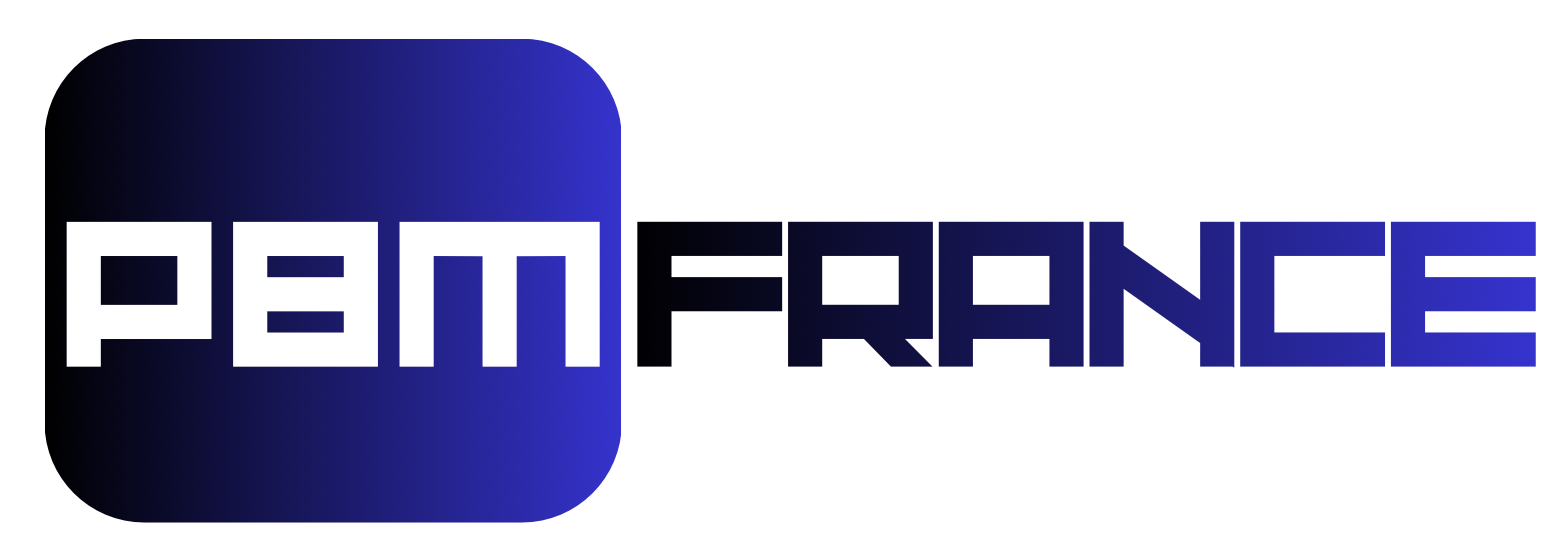
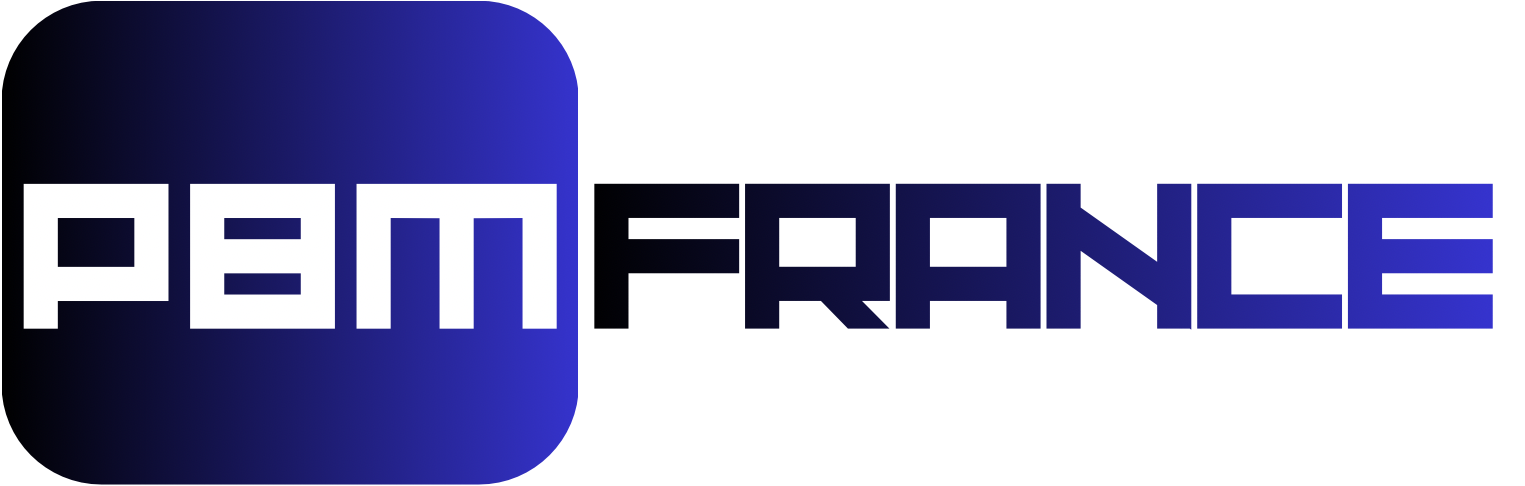
ajout icones de lucide react + footer en blanc

Changed region(s): [[0.0, 0.0, 0.9862, 1.0]]

diff --git a/src/components/Footer.jsx b/src/components/Footer.jsx
@@ -1,14 +1,15 @@
-// src/components/Footer.jsx
+import { Phone, Mail, MapPin } from 'lucide-react';
 import React from 'react';
+import Logo from "../Logo.jsx";
 
 const Footer = () => {
     const phone = '06 XX XX XX XX';
-    const email = 'contact@pbm-france.fr';
+    const email = 'contact@pbmfrance.fr';
     const address = 'Le Thillay, Val d\'Oise 95';
     const whatsappNumber = '33600000000';
 
     return (
-        <footer className="bg-pbm-noir border-t border-white/5">
+        <footer className="bg-gray-300 shadow-sm border-t border-gray-200">
             {/* Main footer grid */}
             <div className="px-14 md:px-16 pt-16 pb-10">
                 <div className="grid grid-cols-1 md:grid-cols-[2fr_1fr_1fr_1fr] gap-12 md:gap-6 lg:gap-10 mb-12">
@@ -16,18 +17,11 @@ const Footer = () => {
                     {/* Col 1 — Brand */}
                     <div className="md:col-span-1">
                         {/* Logo */}
-                        <div
-                            className="font-bebas text-3xl tracking-widest mb-4"
-                            style={{
-                                background: 'linear-gradient(90deg, #f5f3ee, #6366f1)',
-                                WebkitBackgroundClip: 'text',
-                                WebkitTextFillColor: 'transparent',
-                            }}
-                        >
-                            PBM <span style={{ WebkitTextFillColor: '#6366f1' }}>FRANCE</span>
+                        <div className="mb-4">
+                            <Logo />
                         </div>
 
-                        <p className="text-sm text-pbm-grey font-light leading-relaxed max-w-[280px] mb-6">
+                        <p className="text-sm text-pbm-noir font-normal leading-relaxed max-w-[280px] mb-6">
                             Spécialistes en métallerie et menuiserie sur mesure en Île-de-France
                             depuis plus de 10 ans. Portails, rideaux métalliques, escaliers et
                             rénovation façade.
@@ -37,20 +31,20 @@ const Footer = () => {
                         <div className="flex flex-col gap-2">
                             <a
                                 href={`tel:${phone.replace(/\s/g, '')}`}
-                                className="flex items-center gap-2.5 text-sm text-pbm-grey2 font-light hover:text-pbm-blue3 transition-colors"
+                                className="flex items-center gap-2.5 text-sm text-pbm-noir font-normal hover:text-pbm-blue3 transition-colors"
                             >
-                                <span className="text-base">📞</span>
+                                <Phone size={16} className="text-pbm-blue3" />
                                 {phone}
                             </a>
                             <a
                                 href={`mailto:${email}`}
-                                className="flex items-center gap-2.5 text-sm text-pbm-grey2 font-light hover:text-pbm-blue3 transition-colors"
+                                className="flex items-center gap-2.5 text-sm text-pbm-noir font-normal hover:text-pbm-blue3 transition-colors"
                             >
-                                <span className="text-base">✉</span>
+                                <Mail size={16} className="text-pbm-blue3" />
                                 {email}
                             </a>
-                            <div className="flex items-center gap-2.5 text-sm text-pbm-grey2 font-light">
-                                <span className="text-base">📍</span>
+                            <div className="flex items-center gap-2.5 text-sm text-pbm-noir font-normal">
+                                <MapPin size={16} className="text-pbm-blue3" />
                                 {address}
                             </div>
                         </div>
@@ -58,7 +52,7 @@ const Footer = () => {
 
                     {/* Col 2 — Services */}
                     <div>
-                        <div className="text-[11px] text-white uppercase tracking-[2px] font-semibold mb-5">
+                        <div className="text-[11px] text-pbm-noir uppercase tracking-[2px] font-bold mb-5">
                             Services
                         </div>
                         <ul className="flex flex-col gap-2.5">
@@ -73,7 +67,7 @@ const Footer = () => {
                                 <li key={service}>
                                     <a
                                         href="#services"
-                                        className="text-sm text-pbm-grey font-light hover:text-pbm-blue3 transition-colors"
+                                        className="text-sm text-pbm-noir font-normal hover:text-pbm-blue3 transition-colors"
                                     >
                                         {service}
                                     </a>
@@ -84,7 +78,7 @@ const Footer = () => {
 
                     {/* Col 3 — Entreprise */}
                     <div>
-                        <div className="text-[11px] text-white uppercase tracking-[2px] font-semibold mb-5">
+                        <div className="text-[11px] text-pbm-noir uppercase tracking-[2px] font-bold mb-5">
                             Entreprise
                         </div>
                         <ul className="flex flex-col gap-2.5">
@@ -98,7 +92,7 @@ const Footer = () => {
                                 <li key={label}>
                                     <a
                                         href={href}
-                                        className="text-sm text-pbm-grey font-light hover:text-pbm-blue3 transition-colors"
+                                        className="text-sm text-pbm-noir font-normal hover:text-pbm-blue3 transition-colors"
                                     >
                                         {label}
                                     </a>
@@ -107,9 +101,9 @@ const Footer = () => {
                         </ul>
                     </div>
 
-                    {/* Col 4 — Informations */}
+                    {/* Col 4 — Infos */}
                     <div>
-                        <div className="text-[11px] text-white uppercase tracking-[2px] font-semibold mb-5">
+                        <div className="text-[11px] text-pbm-noir uppercase tracking-[2px] font-bold mb-5">
                             Informations
                         </div>
                         <ul className="flex flex-col gap-2.5">
@@ -122,7 +116,7 @@ const Footer = () => {
                                 <li key={item}>
                                     <a
                                         href="#"
-                                        className="text-sm text-pbm-grey font-light hover:text-pbm-blue3 transition-colors"
+                                        className="text-sm text-pbm-noir font-normal hover:text-pbm-blue3 transition-colors"
                                     >
                                         {item}
                                     </a>
@@ -134,18 +128,18 @@ const Footer = () => {
                 </div>
 
                 {/* Footer bottom */}
-                <div className="border-t border-white/5 pt-7 flex flex-col sm:flex-row justify-between items-center gap-4">
-                    <span className="text-xs text-pbm-grey font-light">
+                <div className="border-t border-black pt-7 flex flex-col sm:flex-row justify-between items-center gap-4">
+                    <span className="text-xs text-pbm-noir font-normal">
                         © 2026 PBM France — Pro Bâtiment Menuiserie. Tous droits réservés.
                     </span>
                     <div className="flex gap-3 flex-wrap justify-center">
                         {['SIRET', 'Assurance Décennale', 'RGE'].map((badge) => (
                             <span
                                 key={badge}
-                                className="bg-white/[0.04] border border-white/[0.08] px-3 py-1 rounded text-[10px] text-pbm-grey tracking-[0.5px]"
+                                className="border border-black/[0.8] px-3 py-1 rounded text-[10px] text-pbm-noir font-normal tracking-[0.5px]"
                             >
-                {badge}
-              </span>
+                                {badge}
+                            </span>
                         ))}
                     </div>
                 </div>

diff --git a/src/data/WhyUs.ts b/src/data/WhyUs.ts
@@ -1,25 +1,27 @@
+import { Zap, Trophy, Wrench, MapPin } from 'lucide-react';
+
 export const features = [
     {
         id: 1,
-        icon: '⚡',
+        icon: Zap,
         title: 'Devis en 24h',
         description: 'Réponse rapide garantie. Déplacement gratuit pour évaluation.',
     },
     {
         id: 2,
-        icon: '🏆',
+        icon: Trophy,
         title: 'Sur mesure',
         description: 'Chaque pièce fabriquée selon vos dimensions exactes.',
     },
     {
         id: 3,
-        icon: '🔧',
+        icon: Wrench,
         title: 'Pose incluse',
         description: 'Nos artisans assurent la fabrication et la pose complète.',
     },
     {
         id: 4,
-        icon: '📍',
+        icon: MapPin,
         title: "Toute l'IDF",
         description: "Intervention rapide partout en Île-de-France.",
     },

diff --git a/src/components/Navbar.jsx b/src/components/Navbar.jsx
@@ -1,5 +1,5 @@
 import { useState, useEffect } from "react";
-import logo from "../assets/CYBERSKY.png";
+import Logo from "../Logo.jsx";
 
 export default function Navbar() {
     const [menuOpen, setMenuOpen] = useState(false);
@@ -39,11 +39,7 @@ export default function Navbar() {
                     className="cursor-pointer flex items-center"
                     href="#hero"
                 >
-                    <img
-                        src= {logo}
-                        alt="PBM France"
-                        className="h-8 md:h-10 w-auto object-contain"
-                    />
+                    <Logo />
                 </a>
 
                 {/* Desktop nav */}

diff --git a/src/components/whyus/WhyUsCard.jsx b/src/components/whyus/WhyUsCard.jsx
@@ -1,11 +1,11 @@
-const WhyUsCard = ({ icon, title, description }) => {
+const WhyUsCard = ({ icon: Icon, title, description }) => {
     return (
         <div className="
           bg-white/[0.03] border border-white/[0.06] rounded-xl p-6
           transition-colors duration-200
           hover:border-pbm-blue3/25
         ">
-            <div className="text-2xl mb-3">{icon}</div>
+            <div className="mb-3"><Icon size={24} className="text-pbm-blue3" /></div>
             <div className="font-dm text-sm font-semibold text-pbm-white mb-1.5">
                 {title}
             </div>

diff --git a/src/Logo.jsx b/src/Logo.jsx
@@ -1,0 +1,11 @@
+import logo from "./assets/CYBERSKY.png";
+
+export default function Logo() {
+    return (
+        <img
+            src= {logo}
+            alt="PBM France"
+            className="h-8 md:h-10 w-auto object-contain"
+        />
+    );
+}
